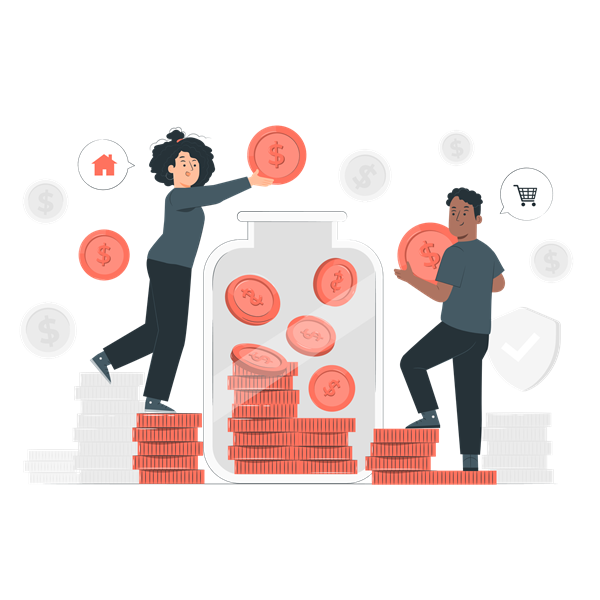
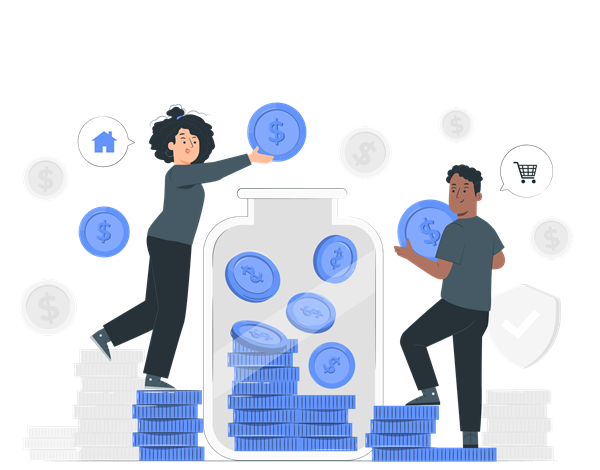
cambio de color de diseño web

diff --git a/index.html b/index.html
@@ -17,9 +17,9 @@
                NAV 
     --------------------------->
     <header>
-        <nav class="navbar is-danger" role="navigation" aria-label="main navigation" >
+        <nav class="navbar has-background-info" role="navigation" aria-label="main navigation" >
             <div class="navbar-brand">
-              <a class="navbar-item titulo">
+              <a class="navbar-item titulo has-text-white">
                 <i class="fa-solid fa-wallet"></i> 
                 <span class="span-titulo">AhorrADAs</span> 
               </a>
@@ -32,18 +32,18 @@
             </div>
 
             <div id="navbarBasicExample" class="navbar-menu">
-              <div class="navbar-end">
-                <a class="navbar-item" id="btn-balance">
+              <div class="navbar-end ">
+                <a class="navbar-item has-text-white" id="btn-balance">
                     <i class="fa-solid fa-chart-line"></i>
                     Balance
                 </a>
           
-                <a class="navbar-item" id="btn-categorias">
+                <a class="navbar-item has-text-white" id="btn-categorias">
                     <i class="fa-solid fa-tag"></i>
                     Categorías
                 </a>
 
-                <a class="navbar-item" id="btn-reportes">
+                <a class="navbar-item has-text-white" id="btn-reportes">
                     <i class="fa-solid fa-chart-pie"></i>
                     Reportes
                 </a>
@@ -145,9 +145,9 @@
             <!-- operaciones -->
             <div class="column is-two-quarters-mobile  is-one-thirds-tablet is-7-desktop div-operaciones">
                 <div class="container box contenedor-operaciones">
-                <div class="column titulo-operaciones">
+                <div class="column titulo-operaciones ">
                     <h2>Operaciones</h2>
-                    <a class="button is-danger btn-operacion" id="btn-operacion"> + Nueva operación</a>
+                    <a class="button has-background-info btn-operacion has-text-white" id="btn-operacion"> + Nueva operación</a>
                 </div>
 
                 <div id="sin-operaciones">

diff --git a/style.css b/style.css
@@ -29,6 +29,10 @@ i{
     display: none;
 }
 
+#btn-balance:hover, #btn-categorias:hover, #btn-reportes:hover{
+background-color: black;
+}
+
 #div-burger{
     background-color: white;
 }
@@ -263,7 +267,7 @@ img{
     }
 }
 
-@media(max-width:500px){
+@media(max-width:560px){
     img{
         width: 240px;
     }
